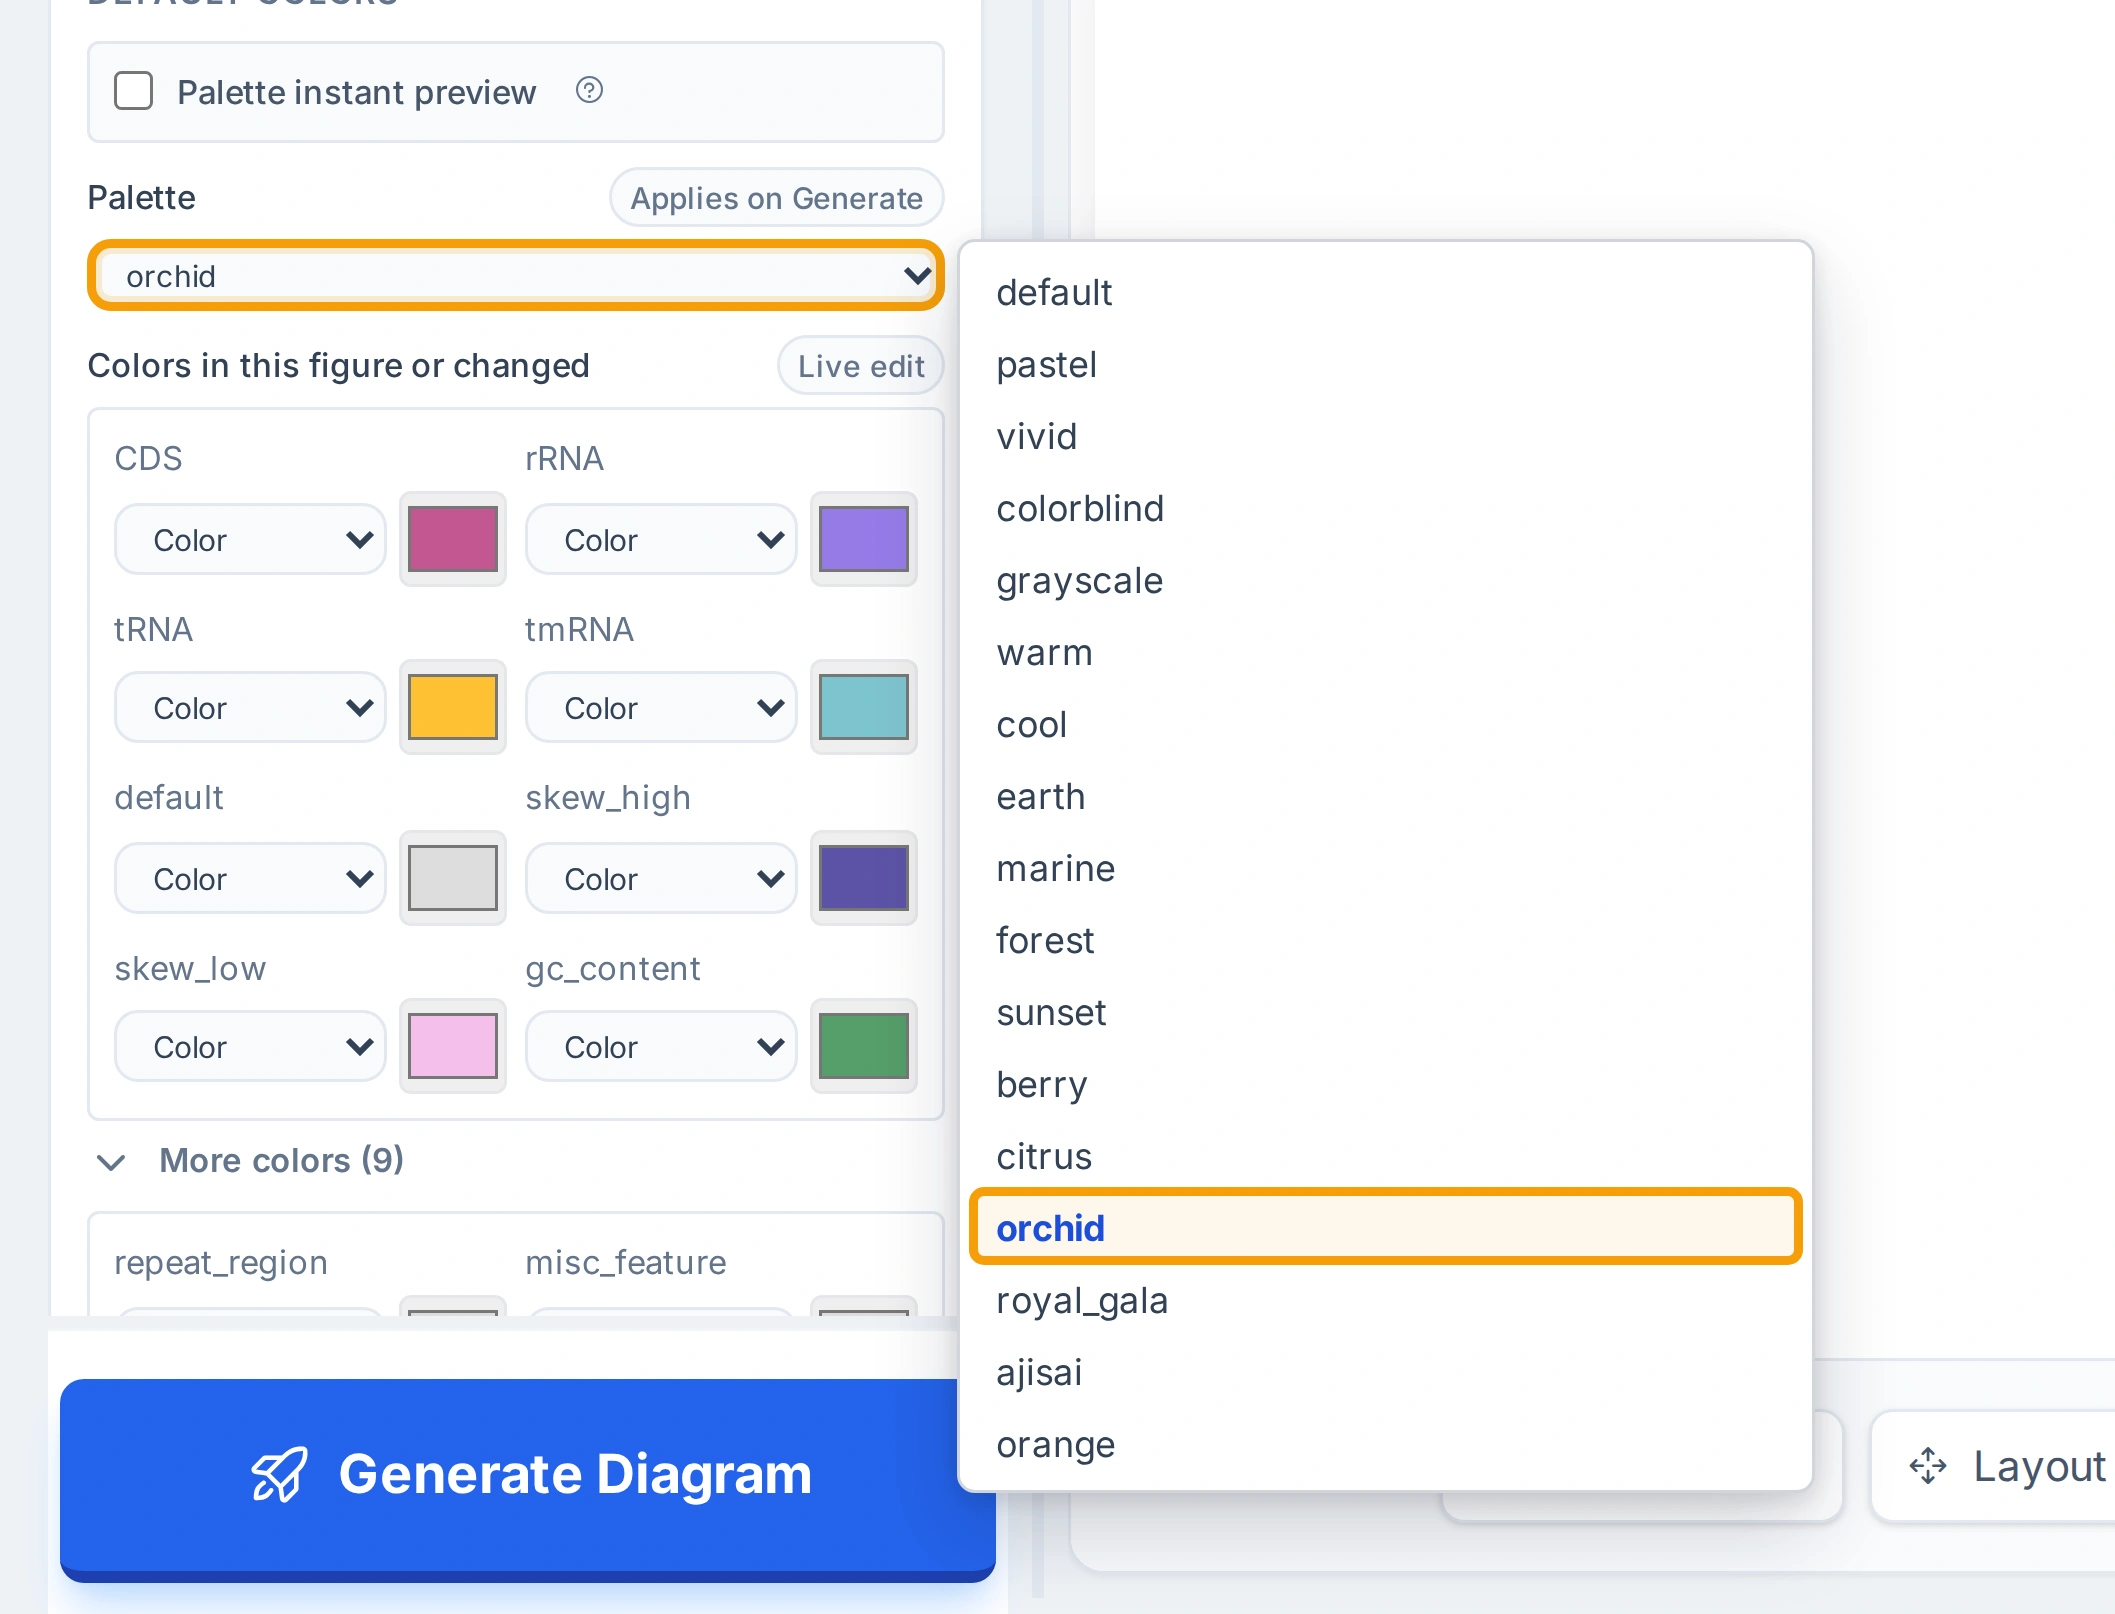
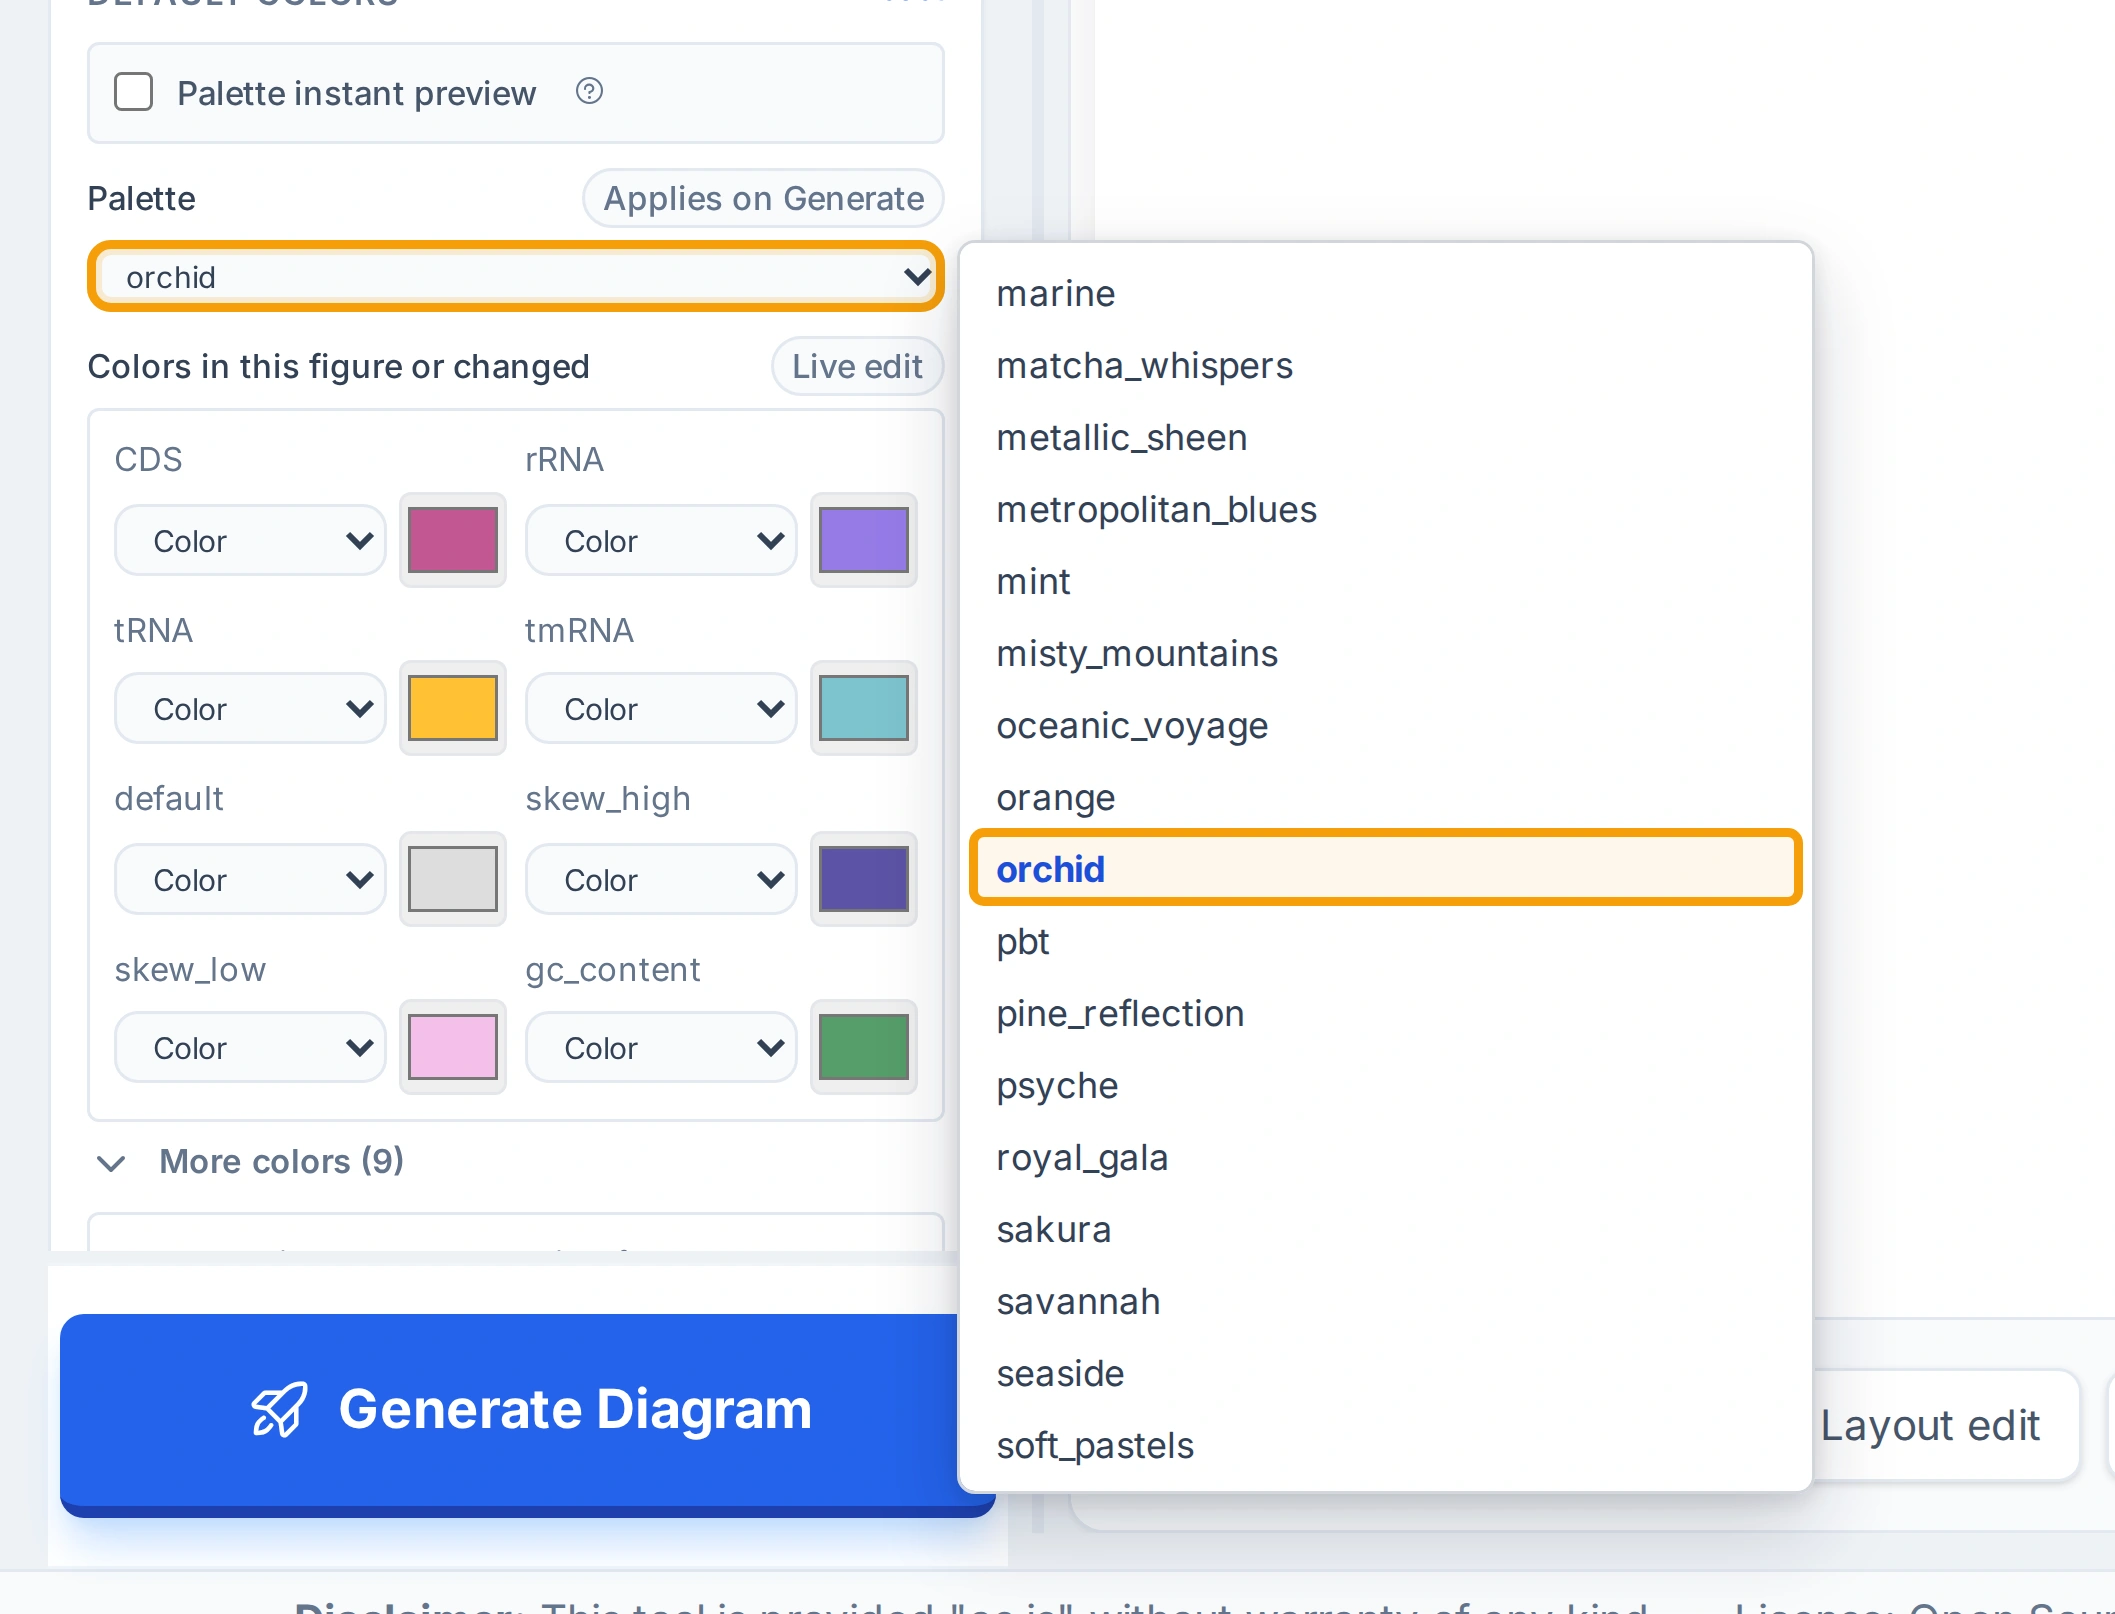
Show the selected option in long openSelect captures and keep createdAt on Gallery refresh
The capture tool now draws at most 17 rows of an openSelect menu, scrolled so
the selected option is in view (OV-1343). The Vnig palette step drops its
hand-written option list and shows the real palettes again (OV-1316);
manual-03-01-palette-orchid.webp is recaptured.

refresh_gallery_sessions.py keeps the replaced Session's createdAt, so two
refreshes of one input give the same bytes (OV-1344, cause 2). Session file
reads and gzip writes share one helper pair.

diff --git a/tests/test_refresh_gallery_sessions.py b/tests/test_refresh_gallery_sessions.py
@@ -1369,8 +1369,10 @@ def test_gallery_session_refresh_does_not_partially_replace_on_failure(
 ) -> None:
     first = tmp_path / "first.gbdraw-session.json"
     second = tmp_path / "second.gbdraw-session.json"
-    first.write_text("first-original", encoding="utf-8")
-    second.write_text("second-original", encoding="utf-8")
+    first_original = '{"createdAt":"first-original"}'
+    second_original = '{"createdAt":"second-original"}'
+    first.write_text(first_original, encoding="utf-8")
+    second.write_text(second_original, encoding="utf-8")
 
     monkeypatch.setattr(refresh_gallery_sessions_module, "REPO_ROOT", tmp_path)
     monkeypatch.setattr(refresh_gallery_sessions_module, "SESSION_ROOT", tmp_path)
@@ -1389,7 +1391,7 @@ def test_gallery_session_refresh_does_not_partially_replace_on_failure(
         assert destination_path is not None
         if session_path == second:
             raise RuntimeError("synthetic render failure")
-        destination_path.write_text("first-refreshed", encoding="utf-8")
+        destination_path.write_text('{"createdAt":"first-refreshed"}', encoding="utf-8")
 
     monkeypatch.setattr(
         refresh_gallery_sessions_module,
@@ -1407,8 +1409,8 @@ def test_gallery_session_refresh_does_not_partially_replace_on_failure(
             (first.name, second.name)
         )
 
-    assert first.read_text(encoding="utf-8") == "first-original"
-    assert second.read_text(encoding="utf-8") == "second-original"
+    assert first.read_text(encoding="utf-8") == first_original
+    assert second.read_text(encoding="utf-8") == second_original
 
 
 def test_prepare_gallery_assets_preserves_existing_source_svgs() -> None:
@@ -2433,3 +2435,42 @@ def test_feature_sources_of_a_web_saved_session_come_from_its_record_resources()
         "first.gbk",
         "second.gbk",
     ]
+
+
+def test_gallery_session_refresh_keeps_the_session_created_at(
+    monkeypatch: pytest.MonkeyPatch,
+    tmp_path: Path,
+) -> None:
+    tracked = tmp_path / "kept.gbdraw-session.json.gz"
+    original = {"format": "gbdraw-session", "createdAt": "2026-01-02T03:04:05+00:00", "title": "old"}
+    tracked.write_bytes(gzip.compress(json.dumps(original).encode("utf-8"), mtime=0))
+
+    monkeypatch.setattr(refresh_gallery_sessions_module, "REPO_ROOT", tmp_path)
+    monkeypatch.setattr(refresh_gallery_sessions_module, "SESSION_ROOT", tmp_path)
+    monkeypatch.setattr(refresh_gallery_sessions_module, "_session_path", lambda name: tmp_path / name)
+    monkeypatch.setattr(refresh_gallery_sessions_module, "load_session", lambda path: {"path": str(path)})
+    monkeypatch.setattr(
+        refresh_gallery_sessions_module, "_validate_staged_gallery_session", lambda *_args, **_kwargs: None
+    )
+    refresh_count = 0
+
+    def fake_refresh(session_path: Path, *, destination_path: Path | None = None) -> None:
+        # Each replay stamps the time it ran, as the CLI Session writer does.
+        nonlocal refresh_count
+        refresh_count += 1
+        assert destination_path is not None
+        refreshed = {**original, "createdAt": f"2026-10-19T00:00:0{refresh_count}+00:00", "title": "new"}
+        destination_path.write_bytes(
+            gzip.compress(json.dumps(refreshed).encode("utf-8"), mtime=refresh_count)
+        )
+
+    monkeypatch.setattr(refresh_gallery_sessions_module, "_refresh_one_session", fake_refresh)
+
+    refresh_gallery_sessions_module.refresh_gallery_sessions((tracked.name,))
+    first_run = tracked.read_bytes()
+    refresh_gallery_sessions_module.refresh_gallery_sessions((tracked.name,))
+
+    refreshed = json.loads(gzip.decompress(first_run))
+    assert refreshed["createdAt"] == original["createdAt"]
+    assert refreshed["title"] == "new"
+    assert tracked.read_bytes() == first_run

diff --git a/tools/refresh_gallery_sessions.py b/tools/refresh_gallery_sessions.py
@@ -1152,20 +1152,49 @@ def _canonicalize_recorded_cli_invocation(
     _edit_staged_session(session_path, canonicalize)
 
 
+def _read_session_file(session_path: Path) -> tuple[dict[str, Any], bool]:
+    """Return a Session file's JSON and whether the file is gzip-compressed."""
+
+    payload = session_path.read_bytes()
+    compressed = payload[:2] == b"\x1f\x8b"
+    return json.loads(gzip.decompress(payload) if compressed else payload), compressed
+
+
+def _write_session_file(session_path: Path, session: Mapping[str, Any], *, compressed: bool) -> None:
+    """Write Session JSON with no time in the gzip header, so equal JSON gives equal bytes."""
+
+    text = json.dumps(session, ensure_ascii=False, separators=(",", ":")).encode("utf-8")
+    session_path.write_bytes(
+        gzip.compress(text, compresslevel=6, mtime=0) if compressed else text
+    )
+
+
 def _edit_staged_session(
     session_path: Path, edit: Callable[[dict[str, Any]], int]
 ) -> None:
     """Rewrite a staged Session file in its own encoding when ``edit`` changes it."""
 
-    payload = session_path.read_bytes()
-    compressed = payload[:2] == b"\x1f\x8b"
-    session = json.loads(gzip.decompress(payload) if compressed else payload)
-    if not edit(session):
-        return
-    text = json.dumps(session, ensure_ascii=False, separators=(",", ":")).encode("utf-8")
-    session_path.write_bytes(
-        gzip.compress(text, compresslevel=6, mtime=0) if compressed else text
-    )
+    session, compressed = _read_session_file(session_path)
+    if edit(session):
+        _write_session_file(session_path, session, compressed=compressed)
+
+
+def _keep_created_at(tracked_path: Path, staged_path: Path) -> None:
+    """Give a refreshed Session the creation time of the Session it replaces.
+
+    The CLI replay stamps the time it ran; a refresh republishes the same
+    Session, so two refreshes of one input give the same bytes.
+    """
+
+    created_at = _read_session_file(tracked_path)[0]["createdAt"]
+
+    def edit(session: dict[str, Any]) -> int:
+        if session.get("createdAt") == created_at:
+            return 0
+        session["createdAt"] = created_at
+        return 1
+
+    _edit_staged_session(staged_path, edit)
 
 
 def _with_comparisons(comparisons: list[Any], session: dict[str, Any]) -> int:
@@ -1227,18 +1256,13 @@ def _declared_command_session(
         env=dict(env),
         check=True,
     )
-    payload = session_path.read_bytes()
-    compressed = payload[:2] == b"\x1f\x8b"
-    session = json.loads(gzip.decompress(payload) if compressed else payload)
+    session, compressed = _read_session_file(session_path)
     invocation = session["cliInvocation"]
     invocation["args"] = [
         args[output_index] if arg == staged_output else arg
         for arg in invocation["args"]
     ]
-    text = json.dumps(session, ensure_ascii=False, separators=(",", ":")).encode("utf-8")
-    session_path.write_bytes(
-        gzip.compress(text, compresslevel=6, mtime=0) if compressed else text
-    )
+    _write_session_file(session_path, session, compressed=compressed)
 
 
 # The request comparisons that hold a computed protein result. Next to a
@@ -1663,6 +1687,7 @@ def refresh_gallery_sessions(
                     _assert_declared_figure(declared_path, staged_path)
             else:
                 _refresh_one_session(session_path, destination_path=staged_path)
+            _keep_created_at(session_path, staged_path)
             staged_session = load_session(staged_path)
             _validate_staged_gallery_session(
                 session_path,

diff --git a/tests/test_gallery_capture_contracts.py b/tests/test_gallery_capture_contracts.py
@@ -703,3 +703,53 @@ def test_capture_lets_css_transitions_end_before_the_crop(
         if "CSSTransition" in script and ".finished" in script
     ]
     assert waits and waits[-1] < events.index("screenshot")
+
+
+def test_vnig_palette_select_lists_the_real_palettes() -> None:
+    tutorial = json.loads(
+        (Path(__file__).resolve().parents[1] / "gbdraw/web/gallery/tutorials/Vnig_TUMSAT-TG-2018.json").read_text()
+    )
+    specs = [
+        operation["capture"]["openSelect"]
+        for step in tutorial["manualSteps"]
+        for operation in step.get("operations", [])
+        if isinstance(operation, dict)
+        and isinstance(operation.get("capture", {}).get("openSelect"), dict)
+        and operation["capture"]["openSelect"].get("selectedLabel") == "orchid"
+    ]
+
+    assert len(specs) == 1
+    assert "options" not in specs[0]
+
+
+def test_open_select_overlay_keeps_selected_option_of_a_long_list_in_the_crop() -> None:
+    playwright_api = pytest.importorskip("playwright.sync_api")
+    labels = [f"palette_{index:02d}" for index in range(55)]
+    options = "".join(f"<option>{label}</option>" for label in labels)
+    html = (
+        "<html><body style='margin:0'><div class='card'><div class='card-header'>Colors</div>"
+        f"<select>{options}</select></div></body></html>"
+    )
+    with playwright_api.sync_playwright() as playwright:
+        browser = playwright.chromium.launch()
+        try:
+            page = browser.new_page(viewport={"width": 800, "height": 600})
+            page.set_content(html)
+            capture_tool.apply_open_select_overlays(
+                page, {"selectedLabel": "palette_40", "cardTitle": "Colors", "placement": "right"}
+            )
+            clip = capture_tool.capture_open_select_clip(page, capture_tool.normalize_crop_padding(12))
+            selected = page.evaluate(
+                """() => {
+                  const rect = document.querySelector('.gbdraw-capture-select-option.is-selected').getBoundingClientRect();
+                  const menu = document.querySelector('.gbdraw-capture-select-menu').getBoundingClientRect();
+                  return {top: rect.top + window.scrollY, bottom: rect.bottom + window.scrollY,
+                          menuTop: menu.top + window.scrollY, menuBottom: menu.bottom + window.scrollY};
+                }"""
+            )
+        finally:
+            browser.close()
+
+    assert selected["menuTop"] <= selected["top"] and selected["bottom"] <= selected["menuBottom"]
+    assert clip["y"] <= selected["top"] and selected["bottom"] <= clip["y"] + clip["height"]
+    assert clip["height"] < 600

diff --git a/tools/capture_gallery_tutorial_screenshots.py b/tools/capture_gallery_tutorial_screenshots.py
@@ -74,6 +74,9 @@ CAPTURE_ACTION_TYPES = frozenset(
 )
 CAPTURE_SELECT_MENU_SELECTOR = ".gbdraw-capture-select-menu"
 CAPTURE_SELECT_CONTROL_SELECTOR = ".gbdraw-capture-select-control"
+# A drawn openSelect menu shows at most this many rows, scrolled so the
+# selected option is in view, like a native select list.
+OPEN_SELECT_MAX_VISIBLE_OPTIONS = 17
 
 
 class QuietGalleryRequestHandler(http.server.SimpleHTTPRequestHandler):
@@ -728,7 +731,7 @@ def apply_open_select_overlays(page, open_select: Any) -> None:
 
     page.evaluate(
         """
-        (specs) => {
+        ({ specs, maxVisibleOptions }) => {
           const normalize = (value) => String(value || '').replace(/\\s+/g, ' ').trim();
           const normalizeKey = (value) => normalize(value).toLowerCase();
 
@@ -884,6 +887,19 @@ def apply_open_select_overlays(page, open_select: Any) -> None:
             });
 
             document.body.appendChild(menu);
+            const rows = Array.from(menu.children);
+            if (rows.length > maxVisibleOptions) {
+              const rowHeight = rows[0].offsetHeight;
+              const menuStyle = getComputedStyle(menu);
+              const chrome = ['paddingTop', 'paddingBottom', 'borderTopWidth', 'borderBottomWidth']
+                .reduce((sum, key) => sum + parseFloat(menuStyle[key] || '0'), 0);
+              menu.style.maxHeight = `${rowHeight * maxVisibleOptions + chrome}px`;
+              menu.style.overflowX = 'hidden';
+              menu.style.overflowY = 'auto';
+              const selectedIndex = rows.findIndex((row) => row.classList.contains('is-selected'));
+              const firstRow = Math.max(0, selectedIndex - Math.floor(maxVisibleOptions / 2));
+              menu.scrollTop = firstRow * rowHeight;
+            }
             const placement = normalizeKey(spec.placement || 'below');
             const gap = Number(spec.gap ?? 4);
             if (placement === 'right') {
@@ -902,7 +918,7 @@ def apply_open_select_overlays(page, open_select: Any) -> None:
           });
         }
         """,
-        specs,
+        {"specs": specs, "maxVisibleOptions": OPEN_SELECT_MAX_VISIBLE_OPTIONS},
     )
     if not specs:
         return
